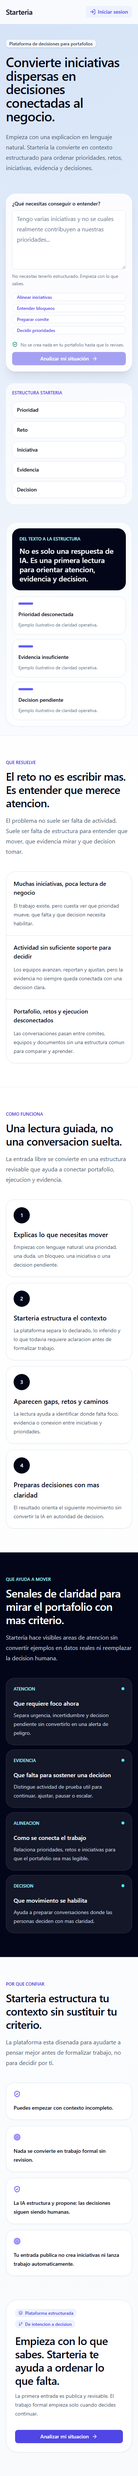
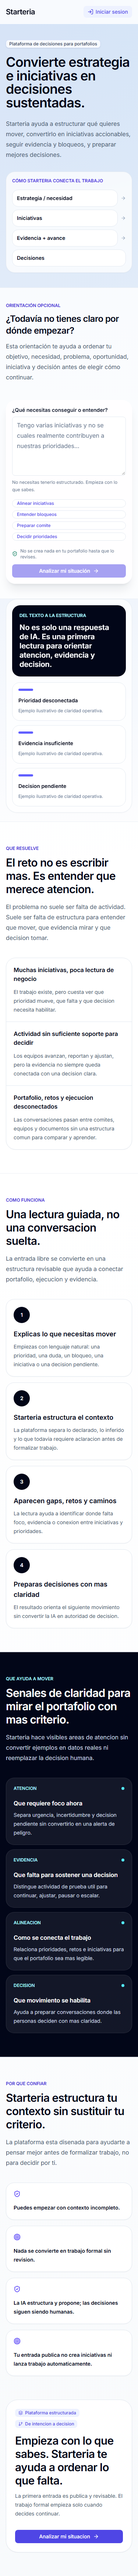
test: validate KAN-64 public landing L1

Changed region(s): [[0.0, 0.0, 1.0, 0.9966]]

diff --git a/front/src/app/pages/LandingPage.tsx b/front/src/app/pages/LandingPage.tsx
@@ -5,7 +5,7 @@ import { Badge } from '../components/ui/badge';
 import { useApp } from '../context/AppContext';
 import { PortfolioEntryExperience } from '../../features/portfolio-entry/public';
 
-const PLATFORM_PATH = ['Prioridad', 'Reto', 'Iniciativa', 'Evidencia', 'Decision'];
+const PLATFORM_PATH = ['Estrategia / necesidad', 'Iniciativas', 'Evidencia + avance', 'Decisiones'];
 
 const PROBLEMS = [
   {
@@ -110,32 +110,38 @@ export function LandingPage() {
       </header>
 
       <main>
-        <section className="mx-auto grid max-w-7xl gap-10 px-4 pb-12 pt-10 sm:px-6 md:pb-16 md:pt-16 lg:grid-cols-[minmax(0,0.88fr)_minmax(440px,0.86fr)] lg:items-center lg:px-8 lg:pb-20 lg:pt-20">
-          <div className="max-w-3xl">
+        <section className="mx-auto max-w-7xl px-4 pb-10 pt-10 sm:px-6 md:pb-14 md:pt-16 lg:px-8 lg:pb-16 lg:pt-20">
+          <div className="max-w-4xl">
             <Badge variant="secondary" className="border-indigo-100 bg-white/80 text-slate-700 shadow-sm">
               Plataforma de decisiones para portafolios
             </Badge>
             <h1 className="mt-5 max-w-4xl text-4xl font-semibold leading-[1.02] tracking-tight text-slate-950 md:text-6xl">
-              Convierte iniciativas dispersas en decisiones conectadas al negocio.
+              Convierte estrategia e iniciativas en decisiones sustentadas.
             </h1>
             <p className="mt-6 max-w-2xl text-base leading-7 text-slate-600 md:text-lg">
-              Empieza con una explicacion en lenguaje natural. Starteria la convierte en contexto estructurado para ordenar prioridades, retos, iniciativas, evidencia y decisiones.
+              Starteria ayuda a estructurar qué quieres mover, convertirlo en iniciativas accionables, seguir evidencia y bloqueos, y preparar mejores decisiones.
             </p>
-
-            <div className="hidden lg:block">
-              <PlatformStructure />
-            </div>
           </div>
 
-          <div className="space-y-6">
+          <PlatformStructure />
+        </section>
+
+        <section aria-labelledby="portfolio-entry-heading" className="border-y border-slate-200/70 bg-white/80">
+          <div className="mx-auto grid max-w-7xl gap-8 px-4 py-10 sm:px-6 md:py-14 lg:grid-cols-[minmax(0,0.8fr)_minmax(0,1fr)] lg:items-start lg:px-8">
+            <div className="max-w-xl">
+              <p className="text-xs font-semibold uppercase text-indigo-700">Orientación opcional</p>
+              <h2 id="portfolio-entry-heading" className="mt-3 text-2xl font-semibold tracking-tight text-slate-950 md:text-3xl">
+                ¿Todavía no tienes claro por dónde empezar?
+              </h2>
+              <p className="mt-3 text-base leading-7 text-slate-600">
+                Esta orientación te ayuda a ordenar tu objetivo, necesidad, problema, oportunidad, iniciativa y decisión antes de elegir cómo continuar.
+              </p>
+            </div>
             <PortfolioEntryExperience
               variant="landing"
               recoverExisting={false}
               redirectAfterStart="/public/start"
             />
-            <div className="lg:hidden">
-              <PlatformStructure />
-            </div>
           </div>
         </section>
 
@@ -294,20 +300,20 @@ export function LandingPage() {
 
 function PlatformStructure() {
   return (
-    <div className="mt-8 rounded-[24px] border border-white/80 bg-white/70 p-4 shadow-sm shadow-slate-900/[0.03] backdrop-blur lg:mt-8">
-      <p className="text-xs font-semibold uppercase text-indigo-700">Estructura Starteria</p>
-      <div className="mt-4 grid gap-2 sm:grid-cols-5">
+    <div aria-label="Cómo Starteria conecta el trabajo" className="mt-8 rounded-[24px] border border-slate-200/80 bg-white/75 p-4 shadow-sm shadow-slate-900/[0.03] backdrop-blur sm:p-5">
+      <p className="text-xs font-semibold uppercase text-indigo-700">Cómo Starteria conecta el trabajo</p>
+      <ol className="mt-4 grid list-none gap-2 p-0 sm:grid-cols-2 lg:grid-cols-4">
         {PLATFORM_PATH.map((item, index) => (
-          <div key={item} className="flex items-center gap-2">
+          <li key={item} className="flex min-w-0 items-center gap-2">
             <div className="min-w-0 flex-1 rounded-2xl border border-slate-200 bg-white px-3 py-3">
               <p className="text-sm font-semibold text-slate-950">{item}</p>
             </div>
             {index < PLATFORM_PATH.length - 1 ? (
-              <ArrowRight size={14} className="hidden shrink-0 text-slate-400 sm:block" />
+              <ArrowRight aria-hidden="true" size={14} className="shrink-0 text-slate-400" />
             ) : null}
-          </div>
+          </li>
         ))}
-      </div>
+      </ol>
     </div>
   );
 }

diff --git a/front/src/app/pages/__tests__/LandingPage.test.tsx b/front/src/app/pages/__tests__/LandingPage.test.tsx
@@ -1,0 +1,51 @@
+import React from 'react';
+import { describe, expect, it, vi } from 'vitest';
+import { render, screen, within } from '@testing-library/react';
+import { MemoryRouter } from 'react-router';
+import { LandingPage } from '../LandingPage';
+
+vi.mock('react-router', async () => {
+  const actual = await vi.importActual<typeof import('react-router')>('react-router');
+  return { ...actual, useNavigate: () => vi.fn() };
+});
+
+vi.mock('../../context/AppContext', () => ({ useApp: () => ({ isAuthenticated: false }) }));
+
+vi.mock('../../../features/portfolio-entry/public', () => ({
+  PortfolioEntryExperience: () => <form aria-label="Portfolio Entry"><label htmlFor="entry-input">¿Qué necesitas?</label><textarea id="entry-input" /></form>,
+}));
+
+function renderLanding() {
+  return render(<MemoryRouter><LandingPage /></MemoryRouter>);
+}
+
+describe('KAN-64 public landing L1 framing', () => {
+  it('presents the approved Starteria product framing before orientation input', () => {
+    renderLanding();
+    const headline = screen.getByRole('heading', { level: 1, name: 'Convierte estrategia e iniciativas en decisiones sustentadas.' });
+    const input = screen.getByRole('textbox', { name: '¿Qué necesitas?' });
+
+    expect(headline.compareDocumentPosition(input) & Node.DOCUMENT_POSITION_FOLLOWING).toBeTruthy();
+    expect(screen.getByText(/Starteria ayuda a estructurar qué quieres mover, convertirlo en iniciativas accionables, seguir evidencia y bloqueos, y preparar mejores decisiones\./)).toBeInTheDocument();
+  });
+
+  it('shows the four connected parts of the platform before optional Portfolio Entry', () => {
+    renderLanding();
+    const model = screen.getByLabelText('Cómo Starteria conecta el trabajo');
+
+    expect(within(model).getAllByRole('listitem').map((item) => item.textContent?.replace(/\s+/g, ' ').trim())).toEqual([
+      'Estrategia / necesidad',
+      'Iniciativas',
+      'Evidencia + avance',
+      'Decisiones',
+    ]);
+    expect(model.compareDocumentPosition(screen.getByRole('heading', { name: '¿Todavía no tienes claro por dónde empezar?' })) & Node.DOCUMENT_POSITION_FOLLOWING).toBeTruthy();
+  });
+
+  it('keeps Portfolio Entry available as optional orientation without functional commercial destinations', () => {
+    renderLanding();
+    expect(screen.getByRole('form', { name: 'Portfolio Entry' })).toBeInTheDocument();
+    expect(screen.queryByRole('link', { name: /early access|demo/i })).not.toBeInTheDocument();
+    expect(screen.queryByRole('button', { name: /early access|demo/i })).not.toBeInTheDocument();
+  });
+});

diff --git a/front/e2e/public-start-access.spec.ts b/front/e2e/public-start-access.spec.ts
@@ -1,12 +1,13 @@
 import { test, expect } from '@playwright/test';
 
-test.describe('anonymous /public/start access (Portfolio Entry)', () => {
-  test('stays on /public/start and renders the Phase 6F entry experience', async ({ page }) => {
+test.describe('anonymous /public/start access (optional Portfolio Entry)', () => {
+  test('keeps the optional orientation, free-text input, and no public PDF upload', async ({ page }) => {
     await page.goto('/public/start');
 
     await expect(page.getByRole('heading', {
-      name: /Convierte tus iniciativas en decisiones conectadas al negocio/i,
+      name: /Aclaremos lo necesario antes de preparar tu lectura/i,
     })).toBeVisible({ timeout: 15_000 });
+    await expect(page.getByRole('textbox')).toBeVisible();
     await expect(page.getByRole('button', { name: /Analizar mi situaci[oó]n/i })).toBeVisible();
     await expect(page.getByRole('button', { name: /Arrastra un PDF/i })).toHaveCount(0);
 
@@ -17,9 +18,7 @@ test.describe('anonymous /public/start access (Portfolio Entry)', () => {
     await page.goto('/public/start');
     await page.reload();
 
-    await expect(page.getByRole('button', { name: /Analizar mi situaci[oó]n/i })).toBeVisible({
-      timeout: 15_000,
-    });
+    await expect(page.getByRole('textbox')).toBeVisible({ timeout: 15_000 });
     expect(new URL(page.url()).pathname).toBe('/public/start');
   });
 });

diff --git a/front/e2e/public-landing-l1.spec.ts b/front/e2e/public-landing-l1.spec.ts
@@ -1,0 +1,30 @@
+import { test, expect } from '@playwright/test';
+
+test.describe('Public Landing L1 product framing', () => {
+  test('explains Starteria before presenting optional Portfolio Entry', async ({ page }) => {
+    await page.goto('/');
+
+    await expect(page.getByRole('heading', {
+      level: 1,
+      name: 'Convierte estrategia e iniciativas en decisiones sustentadas.',
+    })).toBeVisible({ timeout: 15_000 });
+    await expect(page.getByText(
+      'Starteria ayuda a estructurar qué quieres mover, convertirlo en iniciativas accionables, seguir evidencia y bloqueos, y preparar mejores decisiones.',
+    )).toBeVisible();
+
+    const model = page.getByRole('list').filter({ has: page.getByText('Estrategia / necesidad') });
+    await expect(model.getByRole('listitem')).toHaveText([
+      'Estrategia / necesidad',
+      'Iniciativas',
+      'Evidencia + avance',
+      'Decisiones',
+    ]);
+
+    const optionalEntry = page.getByRole('heading', {
+      name: '¿Todavía no tienes claro por dónde empezar?',
+    });
+    await expect(optionalEntry).toBeVisible();
+    await expect(optionalEntry.locator('xpath=following::textarea[1]')).toBeVisible();
+    expect(new URL(page.url()).pathname).toBe('/');
+  });
+});

diff --git a/front/src/app/routes.public-entry.test.tsx b/front/src/app/routes.public-entry.test.tsx
@@ -99,8 +99,10 @@ describe('public entry routing', () => {
     render(<LandingPage />);
 
     expect(screen.getByRole('heading', {
-      name: /Convierte iniciativas dispersas en decisiones conectadas al negocio/i,
+      name: /Convierte estrategia e iniciativas en decisiones sustentadas/i,
     })).toBeInTheDocument();
+    expect(screen.getByRole('heading', { name: /Todavía no tienes claro por dónde empezar/i })).toBeInTheDocument();
+    expect(screen.getByText('Cómo Starteria conecta el trabajo')).toBeInTheDocument();
     expect(screen.getAllByRole('button', { name: /Analizar mi situaci[oó]n/i }).length).toBeGreaterThan(0);
     expect(screen.queryByText(/Crear pre proyecto/i)).not.toBeInTheDocument();
     expect(screen.queryByText(/proposal editor/i)).not.toBeInTheDocument();

diff --git a/docs/implementation/public-landing/KAN-64_PUBLIC_LANDING_L1_IMPLEMENTATION_REPORT_v0.1.md b/docs/implementation/public-landing/KAN-64_PUBLIC_LANDING_L1_IMPLEMENTATION_REPORT_v0.1.md
@@ -1,0 +1,99 @@
+# KAN-64 Public Landing L1 Implementation Report
+
+**HU:** KAN-64 — Public Landing — L1 Product Framing & Hero  
+**Manifest slice:** `KAN-64_PUBLIC_LANDING_L1_PRODUCT_FRAMING_HERO`  
+**Base SHA:** `26e2d76a2fce708ef4695bd9af631fcc1e3638d6`  
+**Branch:** `feat/KAN-64-public-landing-l1-framing`  
+**Guardrail:** `V2_CHANGE_GUARDRAIL_CHECK — Proceed: YES`
+
+## Authority
+
+Implemented under `docs/STARTERIA_AUTHORITY.md`, Core Logic Contract v0.2 (factual / pending validation), ADR-006, the Public Landing UX Spec v0.1, frontend current-state audit v0.1, Public Landing / Portfolio Entry continuation architecture v0.1, Portfolio Entry acceptance checklist v0.1, and the existing frontend design system. No product or contract authority was added.
+
+## Scope implemented
+
+- Updated the `/` hero to the UX Spec FINAL headline and supporting copy.
+- Put the four-part platform model before Portfolio Entry in the document and visual flow.
+- Presented Portfolio Entry below the model with its FINAL optional-orientation framing. The component and its existing props/runtime are unchanged.
+- Added L1-specific component tests and updated one stale route-test expectation for the ADR-006 headline.
+- No Early Access or Demo destination/runtime was added.
+
+## Files changed
+
+- `front/src/app/pages/LandingPage.tsx`
+- `front/src/app/pages/__tests__/LandingPage.test.tsx`
+- `front/src/app/routes.public-entry.test.tsx`
+- `docs/implementation/public-landing/KAN-64_PUBLIC_LANDING_L1_IMPLEMENTATION_REPORT_v0.1.md`
+
+## KEEP / ADAPT / NEW
+
+- **KEEP:** Landing route, shared shell/navigation, existing design primitives, `PortfolioEntryExperience`, its props, `/public/start` redirect and journey logic.
+- **ADAPT:** Existing `LandingPage` hero/framing, local `PlatformStructure` (now four ordered steps and responsive), and Portfolio Entry’s placement/presentation as optional orientation.
+- **NEW:** LandingPage L1 test file and this implementation report. No new product component, shell, design system, route, API or domain object.
+
+## Presentation details
+
+- **Hero:** “Convierte estrategia e iniciativas en decisiones sustentadas.” Supporting copy is copied from the UX Spec FINAL baseline.
+- **PlatformStructure:** Shows `Estrategia / necesidad → Iniciativas → Evidencia + avance → Decisiones` as an ordered list. At small widths it wraps into two columns; at wide widths it uses four columns.
+- **Portfolio Entry:** Appears after the model with “¿Todavía no tienes claro por dónde empezar?” and the FINAL supporting copy. The existing interactive experience remains available beneath it.
+
+## Intentionally not implemented
+
+- Early Access runtime, Demo runtime, routes, forms, APIs, persistence, email, calendar, CRM, lead creation or scheduling.
+- Changes to Portfolio Entry analysis, Agent, Skills, clarification, exploration, handoff, API calls or analytics.
+- Changes to `/public/start`, backend, authentication semantics, Core, Steps 0–4, Adaptive Cycle, canonicalization or domain models.
+
+## Verification
+
+- **Frontend component and route tests:** PASS — 3 files, 29 tests. Command: `npm run test:front -- src/app/pages/__tests__/LandingPage.test.tsx src/app/routes.public-entry.test.tsx src/features/portfolio-entry/public/__tests__/PortfolioEntryExperience.test.tsx`.
+- **Frontend typecheck:** PASS — `npm run typecheck:front`.
+- **`git diff --check`:** PASS.
+- **E2E:** NOT RUN TO COMPLETION. `npm run test:e2e -- e2e/public-start-access.spec.ts` could not start its isolated PostgreSQL container: Docker daemon pipe access was denied (`//./pipe/docker_engine: Access is denied`). Thus `/public/start` runtime behavior was not revalidated end-to-end in this environment.
+- **Manual desktop/mobile QA:** NOT RUN. No browser session was available; responsive ordering and wrapping are covered by markup/classes and component assertions, not visual inspection.
+
+## No-regression assessment
+
+- Portfolio Entry implementation was not changed; its existing relevant tests pass (23 tests), and the route test still verifies explicit navigation to `/public/start`.
+- No route, backend, API, persistence, auth, Core or Step files were changed.
+- No functional Early Access or Demo controls/destinations were introduced.
+- `/public/start` regression: **NOT RUN end-to-end** because Docker access prevented E2E setup. Static route and implementation files were untouched.
+- Core/Steps regression: **NONE observed in the diff**; no affected files.
+
+## Remaining gaps and next slice
+
+- Complete desktop/mobile browser review and `/public/start` E2E when Docker access is available.
+- Early Access and Demo remain out of runtime scope. Recommended next slice: separately authorized runtime/destination implementation for Early Access and Demo after the target routes and technical contracts are approved; no destination is implied by this L1 implementation.
+
+**Session status:** implementation is prepared for review, with E2E and manual visual QA still outstanding.
+
+## Validation closeout follow-up
+
+**Date:** 2026-09-30  
+**Product changes:** none.
+
+- Preflight confirms the only tracked/untracked worktree changes are the four KAN-64 files listed above. `git diff --check` passes.
+- Targeted tests repeated: **PASS**, 29/29 across the LandingPage, route and PortfolioEntryExperience test files.
+- Frontend typecheck repeated: **PASS** (`npm run typecheck:front`).
+- Docker daemon access was authorized and became available. PostgreSQL started and migrations/seeding succeeded on the second attempt. The E2E runner then reached Playwright, but both `/public/start` cases were blocked before browser launch because Playwright Chromium is not installed at `C:\Users\User\AppData\Local\ms-playwright\chromium_headless_shell-1243\chrome-headless-shell-win64\chrome-headless-shell.exe`. The runner also logged ports 4100 and 5176 already in use. No route assertion ran; `/public/start` remains **NOT VERIFIED** by E2E. No Docker configuration was changed.
+- E2E for `/` was not run: the same missing Playwright Chromium binary prevents browser execution.
+- A local Vite preview started at `http://127.0.0.1:5173/` and was stopped after confirming no Chromium executable was available. Desktop and mobile visual inspection are **BLOCKED**, not passed.
+- Product mental model: **REVIEW**. The rendered-component tests and DOM order show the approved headline/supporting copy and platform model precede the Portfolio Entry input. Without a browser, their actual visual prominence cannot be confirmed.
+- Product preview: **PRODUCT_PREVIEW_PARTIAL**. The page communicates initiatives, evidence/gaps, attention and decisions through the four-step model, static illustrative cue cards, and value-support sections. It does not show a tangible workspace with operational progress/status or blocked initiative state; a product/workspace preview remains a later slice.
+
+**Closeout classification:** `VALIDATION_BLOCKED` pending browser installation and browser-based desktop/mobile plus `/` and `/public/start` E2E validation. No implementation defect was found and no product code or test expectation was changed in this validation run.
+
+## Browser validation follow-up
+
+**Date:** 2026-09-30  
+**Product changes:** none.
+
+- The standard E2E runner was retried with Docker access. PostgreSQL provisioning, migration and seed completed. The two tests in `front/e2e/public-start-access.spec.ts` did not reach their assertions because Playwright 1.63 requested `chromium_headless_shell-1243`, which is absent. The runner also logged ports 4100/5176 in use. Standard E2E suite status remains **BLOCKED**, not failed on product assertions.
+- A frontend-only Vite preview was started on `127.0.0.1:5173`. A temporary Playwright browser smoke used the already cached Chromium 1223 executable (no install or repository config change) to inspect `/` at 1440×1000 and 390×844, and direct `/public/start` at desktop width. The temporary script was removed after the run.
+- **Desktop QA: PASS.** The approved headline and supporting copy are visible before the four ordered model steps. The optional-orientation heading follows the model, and the textarea follows its framing. All four steps are visible; no Early Access/Demo controls appear; document width is 1440px with no horizontal overflow. Measured element geometry remained unchanged across a one-second settling interval.
+- **Mobile QA: PASS.** At 390px, headline precedes the model and optional-orientation/input; all four steps remain visible in a two-column layout; document width equals viewport width (390px); Portfolio Entry remains present and reachable. No Early Access/Demo controls appear. Measured geometry remained unchanged across a one-second settling interval.
+- **Mental model: PASS.** Visible evidence is the headline that names strategy, initiatives and supported decisions, supporting copy describing the work, and the four-step model before the Portfolio Entry input.
+- **Product preview: PRODUCT_PREVIEW_PARTIAL.** The page communicates initiatives, evidence gaps, blocking signals and decisions through its text and illustrative cards, but does not present a workspace view with initiative-by-initiative operational progress/status.
+- **Direct route smoke: PASS for basic `/public/start` availability.** Browser URL stayed at `/public/start` and one textarea rendered. This is a browser smoke, not a passing run of the repository's official `public-start-access.spec.ts`; the latter remains blocked before assertions.
+- The frontend-only preview logged a 500 for `/api/v1/auth/refresh` because no backend was started. The public Landing and initial `/public/start` content rendered; no authenticated or submission journey was exercised.
+
+**Updated closeout classification:** `VALIDATION_BLOCKED` for the standard E2E suite; desktop/mobile visual QA and direct route smoke completed. No product regression was found. The official E2E assertions remain outstanding until the expected Playwright browser is available.
